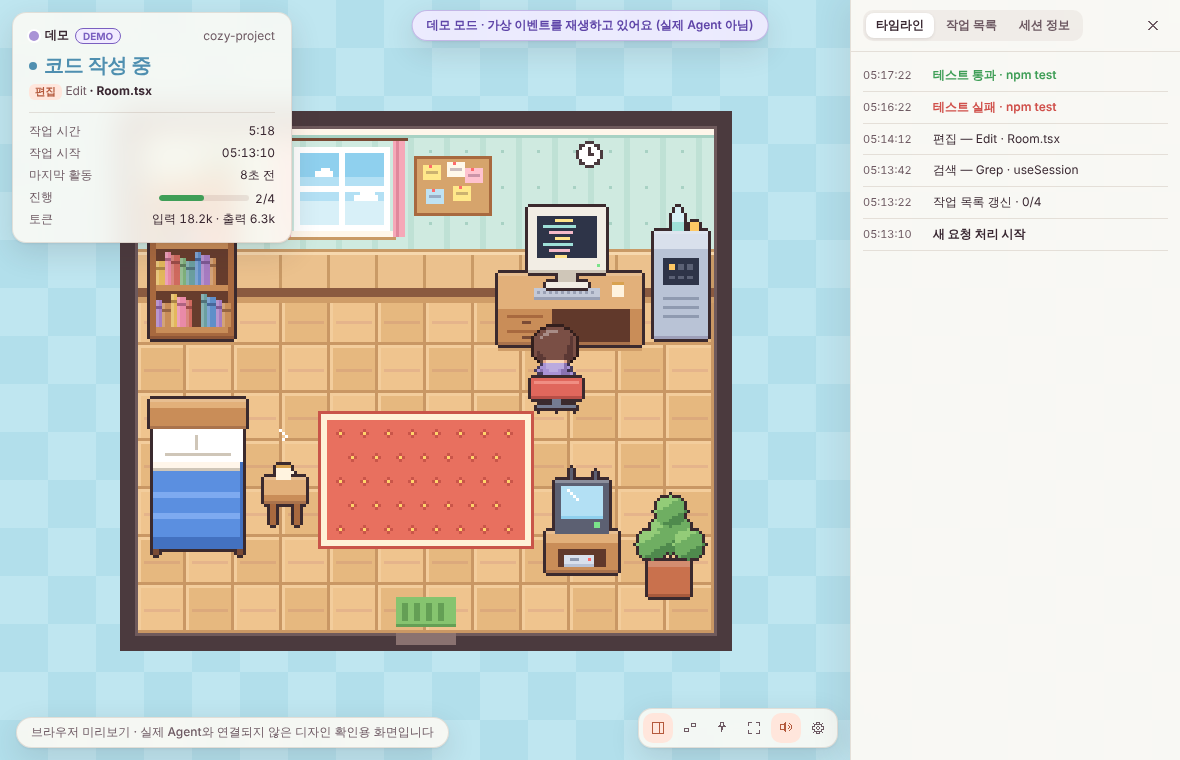
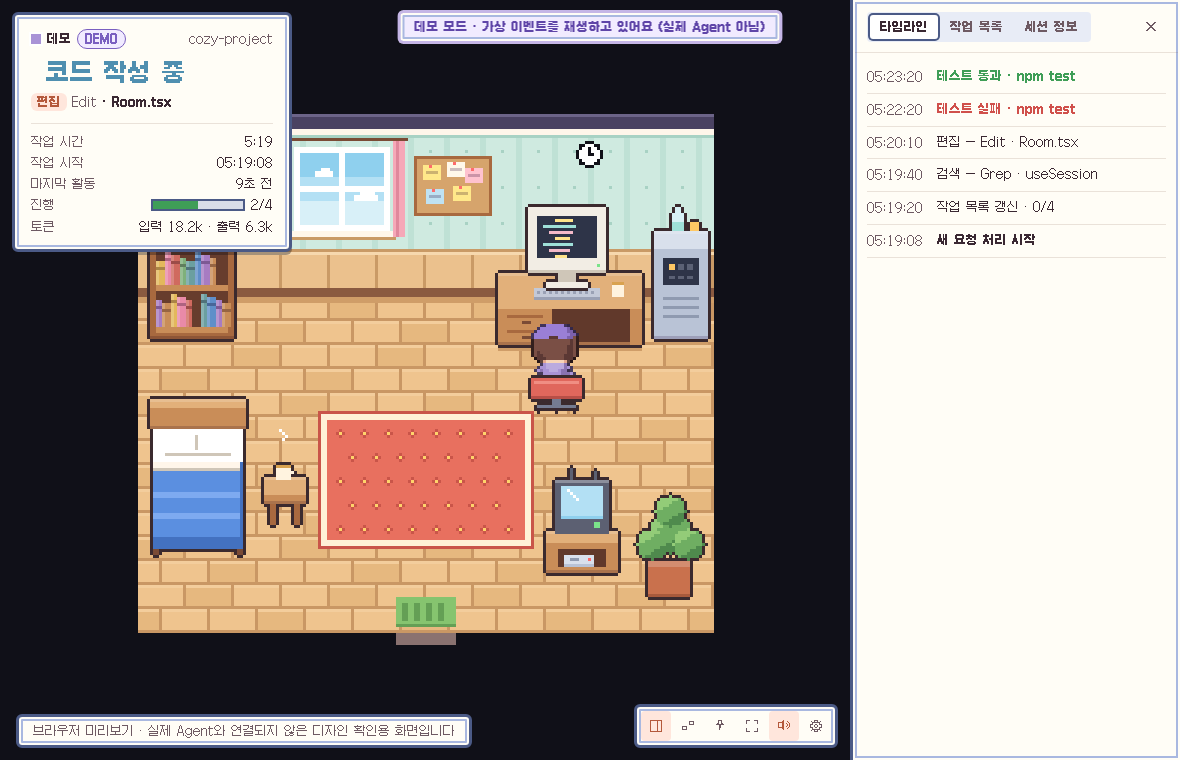
Handheld RPG look: black void, dialog-box UI with Galmuri pixel font, trainer cap
- Outside the room is the black void of an RPG interior map; the wall top is a
  dark band and the floor is planks with tile-aligned joints.
- UI boxes become solid dialog boxes with a two-tone frame and hard shadow;
  text uses the Galmuri pixel font (OFL 1.1, bundled from npm).
- The default character wears a cap coloured per agent.

Claude-Session: https://claude.ai/code/session_01THHRgUBihPzEjceE1XAhkK

diff --git a/app/src/styles.css b/app/src/styles.css
@@ -1,4 +1,7 @@
 :root {
+  --frame: #4b5a86;
+  --frame-l: #a9b8e0;
+  --box: #fffdf6;
   --ink: #3a2832;
   --ink-soft: #6e5a63;
   --paper: #fff8ee;
@@ -19,14 +22,18 @@
   --hair: rgba(122, 86, 70, 0.16);
   --accent: #ff9b7a;
   --accent-soft: #ffe6dc;
-  font-family: -apple-system, BlinkMacSystemFont, 'Apple SD Gothic Neo', 'Pretendard', 'Noto Sans KR', 'Segoe UI', sans-serif;
-  font-size: 13px;
+  font-family: 'Galmuri11', -apple-system, BlinkMacSystemFont, 'Apple SD Gothic Neo', sans-serif;
+  font-size: 12px;
   color: var(--ink);
   color-scheme: light;
 }
 
+/* Galmuri (SIL OFL 1.1): Korean pixel font, crisp at 12px multiples */
+@font-face { font-family: 'Galmuri11'; src: url('../node_modules/galmuri/dist/Galmuri11.woff2') format('woff2'); font-weight: 400; }
+@font-face { font-family: 'Galmuri11'; src: url('../node_modules/galmuri/dist/Galmuri11-Bold.woff2') format('woff2'); font-weight: 700 900; }
+
 * { box-sizing: border-box; }
-html, body, #root { margin: 0; height: 100%; overflow: hidden; background: #bfe6f0; user-select: none; -webkit-user-select: none; }
+html, body, #root { margin: 0; height: 100%; overflow: hidden; background: #101018; user-select: none; -webkit-user-select: none; }
 button { font: inherit; color: inherit; cursor: pointer; }
 
 .app { position: relative; width: 100vw; height: 100vh; }
@@ -190,3 +197,40 @@ html.room-only, html.room-only body, html.room-only #root { background: transpar
 @media (max-width: 720px) {
   .hud { width: 230px; }
 }
+
+/* ------------------------------------------------ handheld RPG dialog-box skin
+   solid white boxes with a thick two-tone frame and hard shadow (no blur, no glass) */
+.card, .panel, .toolbar, .mini-pill, .tab, .banner, .banner.preview {
+  background: var(--box);
+  -webkit-backdrop-filter: none; backdrop-filter: none;
+  border: 3px solid var(--frame);
+  border-radius: 6px;
+  box-shadow: inset 0 0 0 2px var(--box), inset 0 0 0 4px var(--frame-l), 0 3px 0 rgba(16, 16, 24, 0.35);
+}
+.card, .panel { padding: 2px; }
+.panel { border-radius: 0; border-width: 0 0 0 3px; }
+.hud { padding: 14px 16px; }
+.hud-state { font-size: 24px; font-weight: 700; letter-spacing: 0; }
+.small, .chip, .tag, .tab, .timeline time, .callout code, .callout .since, .mono, .files li, .tasks li, .hud-tool, .hud-grid, .timeline li, .info > div { font-size: 12px; }
+.hud-title { font-size: 12px; font-weight: 700; }
+.mono, .files li { font-family: 'Galmuri11', ui-monospace, monospace; }
+.btn { border: 2px solid var(--frame); border-radius: 4px; box-shadow: 0 2px 0 var(--frame); background: var(--box); }
+.btn.primary { background: #e0574c; border-color: #8e2f2a; box-shadow: 0 2px 0 #8e2f2a; }
+.btn.primary:hover { background: #ea6a5f; }
+.bar, .bar i { border-radius: 0; }
+.bar { height: 8px; background: #d8dde8; border: 2px solid var(--frame); box-sizing: content-box; }
+.prog.big .bar { height: 8px; }
+.pulse { border-radius: 0; box-shadow: none; }
+.tone-work .pulse, .tone-wait .pulse { animation: blink 1s steps(1) infinite; }
+@keyframes blink { 50% { opacity: 0; } }
+.tool { border-radius: 4px; }
+.panel nav, .modal nav { border-radius: 4px; background: #e8ecf6; }
+.panel nav button, .modal nav button { border-radius: 3px; }
+.panel nav button.on, .modal nav button.on { box-shadow: 0 0 0 2px var(--frame); }
+.field select, .field input[type='number'] { border: 2px solid var(--frame); border-radius: 4px; }
+.toggle i, .toggle i::after { border-radius: 2px; }
+.agent-card, .callout { border-radius: 4px; border: 2px solid var(--frame-l); }
+.modal-bg { -webkit-backdrop-filter: none; backdrop-filter: none; background: rgba(16, 16, 24, 0.45); }
+.banner.demo { background: #f1ebff; }
+.agent-dot { border-radius: 0; }
+.theme-night .card, .theme-night .panel, .theme-night .toolbar { background: var(--box); }

diff --git a/app/src/game/scene.ts b/app/src/game/scene.ts
@@ -9,13 +9,8 @@ import type { Skin } from './skin';
 
 export type Theme = 'day' | 'sunset' | 'night';
 
-// backdrop around the room: two-tone 16px checker (flat colours)
-const BACKDROP: Record<Theme, [string, string]> = {
-  day: ['#bfe6f0', '#b2dfeb'],
-  sunset: ['#f6cdb8', '#f1c0a9'],
-  night: ['#2b3058', '#272b50'],
-};
-const CHECK = 16;
+// outside the room: the black void of a handheld RPG interior map
+const VOID = '#101018';
 
 interface Spark { x: number; y: number; t: number }
 
@@ -29,7 +24,6 @@ export class Scene {
   private ctx: CanvasRenderingContext2D;
   private buf = document.createElement('canvas');
   private bctx: CanvasRenderingContext2D;
-  private backdrop: HTMLCanvasElement | null = null;
   private scale = 3;
   private theme: Theme = 'day';
   private actor: Actor;
@@ -58,10 +52,7 @@ export class Scene {
   }
 
   setTheme(t: Theme) {
-    if (t !== this.theme) {
-      this.theme = t;
-      this.backdrop = null;
-    }
+    this.theme = t;
   }
 
   setView(v: SceneView) {
@@ -122,7 +113,6 @@ export class Scene {
     this.scale = Math.max(1, Math.floor(Math.min(availW / (room.w + margin), availH / (room.h + margin))));
     this.buf.width = Math.ceil(w / this.scale);
     this.buf.height = Math.ceil(h / this.scale);
-    this.backdrop = null;
     this.draw();
   }
 
@@ -135,20 +125,6 @@ export class Scene {
     return bx > f.x - 9 && bx < f.x + 9 && by > f.y - 24 && by < f.y + 2;
   }
 
-  private buildBackdrop() {
-    const c = document.createElement('canvas');
-    c.width = this.buf.width;
-    c.height = this.buf.height;
-    const g = c.getContext('2d')!;
-    const [a, b] = BACKDROP[this.theme];
-    for (let y = 0; y < c.height; y += CHECK) {
-      for (let x = 0; x < c.width; x += CHECK) {
-        g.fillStyle = (x / CHECK + y / CHECK) % 2 ? b : a;
-        g.fillRect(x, y, CHECK, CHECK);
-      }
-    }
-    this.backdrop = c;
-  }
 
   private burst() {
     for (let i = 0; i < 6; i++) this.sparks.push({ x: (Math.random() - 0.5) * 26, y: -10 - Math.random() * 18, t: 0 });
@@ -171,8 +147,8 @@ export class Scene {
     if (this.roomOnly) {
       g.clearRect(0, 0, W, H);
     } else {
-      if (!this.backdrop) this.buildBackdrop();
-      g.drawImage(this.backdrop!, 0, 0);
+      g.fillStyle = VOID;
+      g.fillRect(0, 0, W, H);
     }
 
     // centre the room in the free area

diff --git a/tools/art/gen_art.py b/tools/art/gen_art.py
@@ -36,7 +36,7 @@ C = {k: hexc(v) for k, v in {
 BOOK_COLS = [hexc(h) for h in ('#d06a5f', '#5f8fc9', '#e3b85c', '#7fb07a', '#a77cc2', '#e98aa8', '#6b9fa0', '#c98d58')]
 
 C.update({k: hexc(v) for k, v in {
-    'outline': '#3b2a2e', 'frame': '#4b3a3e', 'frame_l': '#6f5a5c',
+    'outline': '#3b2a2e', 'frame': '#101018', 'walltop': '#4a4262', 'walltop_l': '#6c6488',
     'wp': '#cfeae0', 'wp_s': '#bfe1d5', 'wp_d': '#a8d2c4', 'crown': '#fff6ea',
     'wains': '#ebc18d', 'wains_d': '#c99a66', 'wains_l': '#f6d8ae', 'base': '#8a5a40',
     'fl_a': '#efc48e', 'fl_b': '#e6b87f', 'fl_c': '#f3cd9c', 'fl_seam': '#c99764', 'fl_sh': '#cf9d68',
@@ -70,7 +70,9 @@ def block(s, x, y, w, top_h, front_h, top, front):
 
 def draw_room(s):
     s.rect(0, 0, SW, SH, C['frame'])
-    s.rect(IN_X0 - 1, WALL_Y0 - 1, IN_X1 - IN_X0 + 2, FLOOR_Y1 - WALL_Y0 + 2, C['frame_l'])
+    # top of the back wall seen from above
+    s.rect(IN_X0, 1, IN_X1 - IN_X0, WALL_Y0 - 1, C['walltop'])
+    s.rect(IN_X0, 1, IN_X1 - IN_X0, 1, C['walltop_l'])
     # wall: crown, striped wallpaper with a dot motif, chair rail, wainscot panels, baseboard
     for y in range(WALL_Y0, FLOOR_Y0):
         for x in range(IN_X0, IN_X1):
@@ -89,20 +91,19 @@ def draw_room(s):
             else:
                 c = C['base']
             s.put(x, y, c)
-    # floor: 16px tiles with a lit top-left edge and a dark seam (handheld RPG interior look)
+    # floor: two 8px planks per 16px tile, joints staggered by half a tile, lit top edge
     for y in range(FLOOR_Y0, FLOOR_Y1):
-        ty, v = divmod(y - FLOOR_Y0, 16)
+        r, v = divmod(y - FLOOR_Y0, 8)
+        off = 8 if r % 2 else 0
         for x in range(IN_X0, IN_X1):
-            tx, u = divmod(x - IN_X0, 16)
-            base = C['fl_a'] if (tx + ty) % 2 == 0 else C['fl_b']
-            if u == 15 or v == 15:
+            u = (x - IN_X0 + off) % 16
+            k = ((x - IN_X0 + off) // 16 + r) % 3
+            if v == 7 or u == 15:
                 c = C['fl_seam']
-            elif u == 0 or v == 0:
+            elif v == 0:
                 c = C['fl_c']
-            elif v == 8 and 2 <= u <= 13:
-                c = shade(base, 0.96)
             else:
-                c = base
+                c = (C['fl_a'], C['fl_b'], C['fl_a'])[k]
             if y < FLOOR_Y0 + 2:
                 c = C['fl_sh']
             s.put(x, y, c)

diff --git a/tools/art/character.py b/tools/art/character.py
@@ -9,13 +9,13 @@ from pix import Spr, hexc, shade
 W, H = 20, 24
 PAD = 2
 
-HEAD_FRONT = [
-    "................",
-    ".....hhhhhh.....",
-    "...hhHHHHhhhh...",
-    "..hhHHhhhhhhhh..",
-    ".hhHhhhhhhhhhkh.",
-    ".hhhhhhhhhhhhkh.",
+HEAD_FRONT = [  # cap (r/R, white front panel w, brim q) over hair
+    ".....rrrrrr.....",
+    "...rrrwwwwrrR...",
+    "..rrrwwwwwwrRR..",
+    ".rrrrwwwwwwrrRR.",
+    ".rrrrrrrrrrrrRR.",
+    ".qqqqqqqqqqqqqqq",
     ".hkhhhhhhhhhhkh.",
     ".hkhshhhhhhshkh.",
     ".hksssshsshsskh.",
@@ -25,11 +25,11 @@ HEAD_FRONT = [
     "...SssssssssS...",
 ]
 HEAD_BACK = [
-    "................",
-    ".....hhhhhh.....",
-    "...hhHHHHhhhh...",
-    "..hhHHhhhhhhhh..",
-    ".hhHhhhhhhhhhkh.",
+    ".....rrrrrr.....",
+    "...rrrrrrrrrR...",
+    "..rrrrrrrrrrRR..",
+    ".rrrrrrrrrrrrRR.",
+    ".rrrrrkkkrrrRRh.",
     ".hhhhhhhhhhhhkh.",
     ".hhhhhhhhhhhhkh.",
     ".hhhhhhhhhhhkkh.",
@@ -225,12 +225,12 @@ BASE_PAL = {
     'B': '#c65a5a', 'W': '#fff8ea', 'K': '#8e3c47', 'M': '#fffaf0', 'T': '#c98e5a',
 }
 
-# per-agent look: hoodie + hair. Extend this table to add agents (multi-character mode).
+# per-agent look: hoodie + hair + cap. Extend this table to add agents (multi-character mode).
 AGENT_LOOKS = {
-    'claude': {'c': '#d9825f', 'h': '#5b3b33'},
-    'codex': {'c': '#5b97b5', 'h': '#2f2a3d'},
-    'generic': {'c': '#8fb37a', 'h': '#6a4a3a'},
-    'demo': {'c': '#a993d6', 'h': '#7a4f45'},
+    'claude': {'c': '#d9825f', 'h': '#5b3b33', 'cap': '#e0574c'},
+    'codex': {'c': '#5b97b5', 'h': '#2f2a3d', 'cap': '#3f7fd0'},
+    'generic': {'c': '#8fb37a', 'h': '#6a4a3a', 'cap': '#4fae62'},
+    'demo': {'c': '#a993d6', 'h': '#7a4f45', 'cap': '#9a7fd6'},
 }
 
 
@@ -239,7 +239,9 @@ def palette(agent):
     pal = {k: hexc(v) for k, v in BASE_PAL.items()}
     c = hexc(look['c'])
     h = hexc(look['h'])
-    pal.update({'c': c, 'C': shade(c, 0.82), 'd': shade(c, 1.22), 'h': h, 'H': shade(h, 1.35), 'k': shade(h, 0.75)})
+    cap = hexc(look['cap'])
+    pal.update({'c': c, 'C': shade(c, 0.82), 'd': shade(c, 1.22), 'h': h, 'H': shade(h, 1.35), 'k': shade(h, 0.75),
+                'r': cap, 'R': shade(cap, 0.8), 'q': shade(cap, 0.62)})
     return pal
 
 

diff --git a/README.md b/README.md
@@ -123,3 +123,5 @@ cargo run -p agent-room-core --example monitor            # 앱 대신 이벤트
 
 ## 라이선스
 MIT
+
+UI 글꼴: [갈무리(Galmuri)](https://github.com/quiple/galmuri), SIL Open Font License 1.1.
